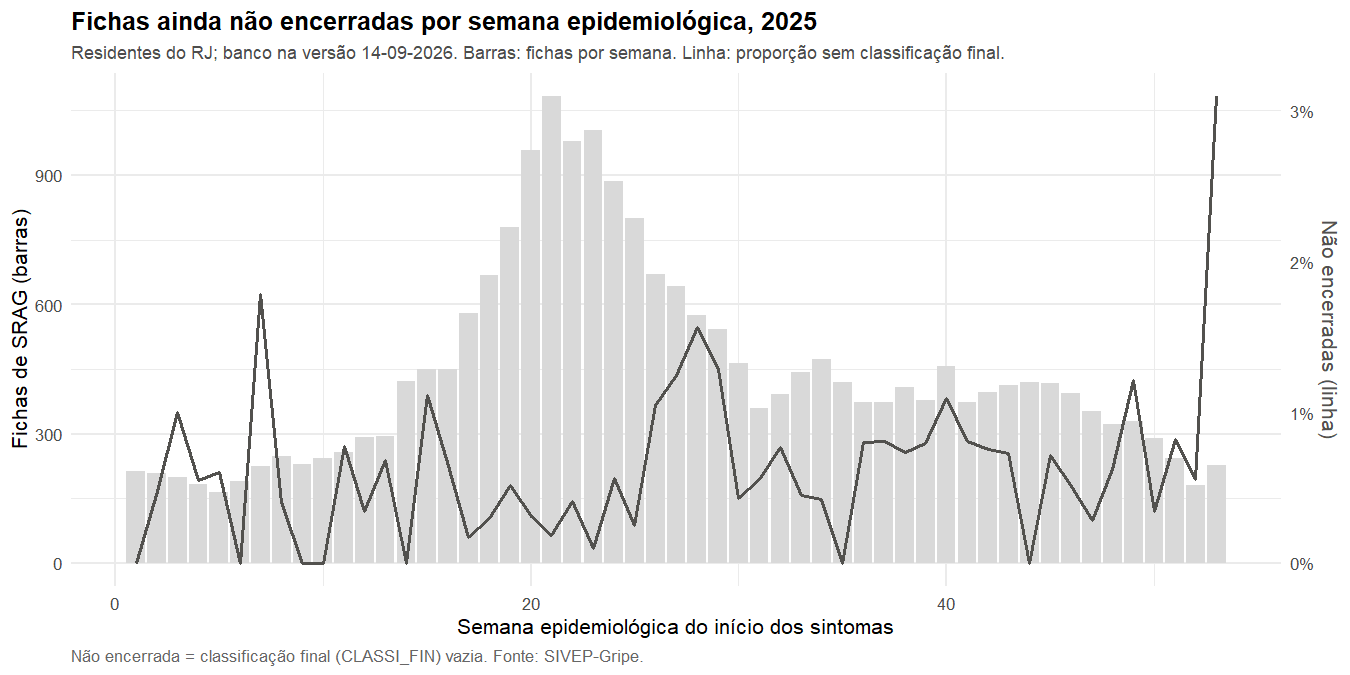
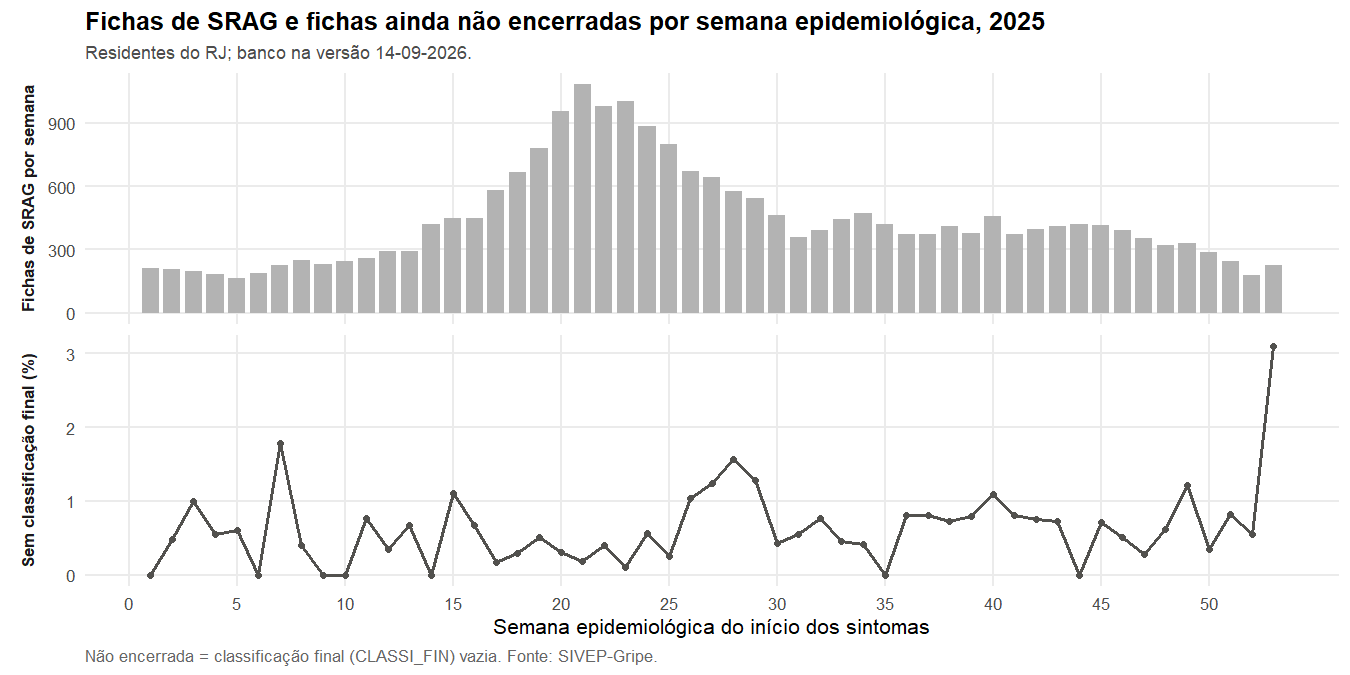
CS-047: revisão dos modelos de gráfico
docs/revisao-graficos.md registra, figura a figura, a pergunta que ela
responde e se a forma é a adequada. Trocas: o gráfico de fichas não
encerradas deixa o eixo duplo por dois painéis empilhados; o mapa LISA
isolado perde os rótulos sobrepostos (o subtítulo já nomeia os
confirmados) e calcula os "esperados por acaso"; figura nova com a série
do estado em um painel por vírus, escala própria. Suíte 741/741 em 23
arquivos.

diff --git a/docs/revisao-graficos.md b/docs/revisao-graficos.md
@@ -1,0 +1,43 @@
+# Revisão dos modelos de gráfico (CS-047)
+
+*Documento vivo. Uma linha por figura: o que ela precisa mostrar, se a forma escolhida é a
+adequada, e o que foi trocado. Critérios: a forma segue o que o dado tem de responder
+(magnitude, identidade, tempo, posição); um eixo por gráfico; cor pela entidade, nunca pela
+ordem; legenda sempre que há mais de uma série; nada que dependa só de cor. Revisão feita em
+2026-09-26 sobre a paleta do CS-046.*
+
+## Figuras do relatório
+
+| Figura | Pergunta que responde | Decisão | Por quê |
+|---|---|---|---|
+| Guia de cores | qual cor é qual vírus e qual classe do LISA | mantida | é a legenda-mestra do relatório |
+| Painel de incidência (3 vírus × 4 anos, mapas) | onde a taxa é alta, e como isso muda no tempo, por vírus | mantida | escala comum aos 4 anos de cada vírus, raiz quadrada para não achatar os anos de baixa; rampa na cor do vírus; entre vírus a escala não é comparável, e o título diz isso |
+| Mapas de incidência isolados (12) | o mesmo, com classes por quintil do próprio mapa | mantidos | quintis destacam o padrão de cada ano; a legenda diz que as classes são do mapa |
+| Bruta × padronizada por idade (dispersão, 12 painéis) | a padronização muda a ordem dos municípios? | mantida | dispersão contra a diagonal é a forma direta da pergunta; os extremos são nomeados na tabela ao lado, não no gráfico (92 pontos por painel) |
+| Bruta × suavizada (dispersão) | quanto a suavização puxa os pequenos | mantida | idem |
+| Painel LISA (3 × 4) | onde há agrupamento, por vírus e ano | mantido | cor cheia/clara para confirmado/indicativo, hachura para instável (não depende só de cor) |
+| Mapa LISA isolado (VSR 2024) | quais municípios formam o agrupamento confirmado | **trocado**: rótulos retirados do mapa | Itaboraí e Tanguá se sobrepunham e o preto sumia sobre o vermelho; o subtítulo já nomeia os confirmados. O "4,6 esperados por acaso" era fixo no código e passou a ser calculado |
+| Mapa de referência das regiões | qual município está em qual região | mantido | tons pastel + nome escrito + tabela (não depende só de cor) |
+| Mapas regionais (12) | taxa por região | mantidos | nome e taxa escritos nas 9 regiões |
+| Série semanal do estado (3 linhas) | a magnitude relativa dos três vírus no tempo | mantida | é a única figura em que os três estão na mesma escala; o pico de 2022 é o fato |
+| **Série por vírus, um painel cada** | o tempo e a forma das ondas de influenza e VSR | **nova** | na escala comum, o pico de SARS-CoV-2 de 2022 (2.265/semana) achata ondas de 300/semana; painéis com escala própria mostram o tempo sem mentir sobre a altura, e o subtítulo diz para não comparar alturas |
+| Painel das 9 regiões (séries) | quando cada região teve suas ondas | mantido | escala própria por região, declarada; as contagens absolutas não são comparáveis entre regiões (população varia 38 vezes), e o texto usa as taxas para isso |
+| Fichas não encerradas por semana | há subida de não encerradas no fim do ano? | **trocada**: eixo duplo → dois painéis empilhados | barra e linha em dois eixos são o erro clássico: os cruzamentos entre elas não significam nada, e a razão entre as escalas é arbitrária. Dois painéis com o mesmo eixo do tempo respondem a mesma pergunta sem esse artefato |
+| Versões do banco (diferença de casos) | quanto os números mudam entre versões | mantida | já trocada no CS-048 de % para diferença absoluta, pelo mesmo motivo (um eixo de 99,9 % a 100,1 % faz 3 casos parecerem uma oscilação) |
+| Leitos × taxa (dispersão, 8 painéis) | a taxa acompanha a oferta de leitos? | mantida | eixo x em raiz quadrada porque metade dos municípios tem 0 leito de UTI; rho e IC escritos no painel |
+
+## Fora do relatório
+
+| Figura | Decisão | Por quê |
+|---|---|---|
+| Histograma de vizinhos | mantido | forma certa para uma distribuição de contagens |
+| Séries por região (9 gráficos isolados) | mantidos | os mesmos das facetas do painel, para quem quer uma região |
+
+## O que não foi feito, e por quê
+
+- **Rótulo direto nas séries** (nome do vírus na ponta da linha): a legenda no topo já resolve, e
+  na escala comum as linhas de influenza e VSR terminam quase juntas.
+- **Escala logarítmica** na série do estado: esconderia os zeros (semanas sem caso) e o leitor
+  clínico lê pior um eixo log do que dois painéis.
+- **Mapa com dados por ponto** (cartograma, círculos proporcionais): a unidade de decisão é o
+  polígono do município, e a taxa já corrige a população.

diff --git a/docs/BACKLOG.md b/docs/BACKLOG.md
@@ -110,7 +110,6 @@ D-06, D-08, D-09, D-10 e a opção do CS-039). **Só a D-02 (prazo) continua abe
 
 | ID | Título | Evidência | Modelo · Esforço | Aceite |
 |---|---|---|---|---|
-| CS-047 | **Revisão dos modelos de gráfico** — para cada figura do relatório (12 + painéis, séries, dispersões, barras com eixo duplo da maturação, gráfico de leitos), responder se a forma é a mais adequada ao que se quer mostrar, propor a troca quando não for (ex.: eixo duplo → dois painéis; dispersão com 92 pontos → identificar extremos) e aplicar; documento curto com a decisão por figura | pedido da analista | Fable · medium (crítica + execução, pequena) | `docs/revisao-graficos.md` com 1 linha por figura (mantida/trocada/por quê); figuras trocadas regeradas; teste de figuras do relatório verde |
 | CS-049 | **População: explicação didática e fórmulas no texto** — o Censo não é anual: escrever, na proposta v2 §3.4 e no relatório, como cada denominador foi obtido — Censo 2022 (contagem), estimativas IBGE 2024/2025 (método do IBGE, com fonte), 2023 por interpolação linear nas datas de referência (fórmula com o peso 334/700), estrutura etária de 2022 aplicada aos outros anos (fórmula), com um exemplo numérico de um município | pedido da analista; ADR-0003; `docs/nota-metodologica-padronizacao.md` | Fable · medium (texto didático; método do IBGE conferido na nota técnica) | subseção "Como a população foi estimada" com 3 fórmulas e 1 exemplo numérico calculado pelo código; 0 números digitados; método do IBGE citado da nota metodológica oficial |
 | CS-052 | **ADRs integrados ao texto** — cada decisão de método (ADR-0001 a 0007) aparece no texto da proposta v2 §3 e numa seção "Decisões de método" do relatório, em linguagem de artigo (o quê, por quê, alternativa descartada), sem depender de o leitor abrir `docs/decisoes/` | pedido da analista | Fable · medium | 7 ADRs cobertos (tabela de rastreio ADR → parágrafo); relatório com seção nova; 0 números digitados |
 | CS-053 | **(não prioritário) Viés de cobertura vacinal — análise no texto** — variação da abertura das campanhas por município e "dias D"; cobertura vacinal de influenza por município e ano (SI-PNI/DATASUS) como variável principal; auditoria município × ano registrando onde a fonte municipal não permite datar a campanha; só texto e tabela de apoio, fora do pipeline principal | pedido da analista, marcado como não prioritário | Fable · high (fonte de cobertura por município a verificar; dados de campanha municipal dispersos) | tabela município × ano com cobertura e data de abertura (ou "não determinável"); seção de discussão; nenhuma leitura causal |
@@ -188,6 +187,7 @@ D-06, D-08, D-09, D-10 e a opção do CS-039). **Só a D-02 (prazo) continua abe
 | CS-050 | **Mapa de referência das regiões de saúde** — 92 municípios coloridos pela região, nomes no polo de inacessibilidade; tabela região → municípios e população no relatório e exportada; parágrafo "por que regiões" (Decreto nº 7.508/2011; SES-RJ) e "por que a análise principal é municipal". Suíte 695/695 em 22 arquivos | 2026-09-26 | `docs/release-history/cs-050-mapa-regioes.md` · commit `5006847` |
 | CS-048 | **Quanto os números mudam depois do fim do ano** — 19 versões antigas do banco de 2025 e 1 de 2024 achadas no S3 do portal; 6 + 1 comparadas com as do estudo: 2025 varia no máximo 3 casos por vírus (0,09 %) entre 65 e 254 dias após o fim do ano; 2024 idêntico entre 180 e 450 dias; tempo mediano até encerrar 15–22 dias, 85–93 % em até 90 dias; seção, tabela e figura no relatório. Suíte 717/717 em 22 arquivos | 2026-09-26 | `docs/release-history/cs-048-versoes-do-banco.md` · commit `b184af1` |
 | CS-051 | **Tabelas ABNT em Word** — `tabelas_abnt.docx` com as 14 tabelas dos 14 CSVs (título acima, fonte abaixo, 3 traços, sem linhas verticais, cabeçalho repetido, paisagem, vírgula decimal), gerado pelo pandoc do Quarto em 4 s e reprodutível byte a byte; série semanal resumida por mês. Suíte 739/739 em 23 arquivos | 2026-09-26 | `docs/release-history/cs-051-tabelas-abnt.md` · commit `4287ce2` |
+| CS-047 | **Revisão dos modelos de gráfico** — `docs/revisao-graficos.md` com pergunta, decisão e motivo por figura (15 + 2); trocadas: eixo duplo das não encerradas → 2 painéis, rótulos sobrepostos do mapa LISA retirados; nova: série do estado com um painel por vírus. Suíte 741/741 em 23 arquivos | 2026-09-26 | `docs/release-history/cs-047-revisao-graficos.md` · commit `(a registrar)` |
 
 ## Descartados
 

diff --git a/docs/release-history/cs-047-revisao-graficos.md b/docs/release-history/cs-047-revisao-graficos.md
@@ -1,0 +1,36 @@
+# CS-047 — Revisão dos modelos de gráfico
+
+- **Data:** 2026-09-26
+- **Modelo · esforço:** Fable · medium (acordado com o dono)
+- **Origem:** pedido da analista: "os modelos de gráficos escolhidos realmente são os mais adequados
+  para compreensão e visualização das análises realizadas?"
+
+## Verificação com número
+
+| Critério de aceite | Resultado |
+|---|---|
+| `docs/revisao-graficos.md` com 1 linha por figura | 15 figuras do relatório + 2 de fora, cada uma com pergunta, decisão e motivo; seção "o que não foi feito" |
+| Figuras trocadas regeradas | 2 trocadas (eixo duplo → 2 painéis; rótulos do LISA retirados) + 1 nova (série com um painel por vírus); conferidas na imagem |
+| Teste de figuras do relatório | verde: toda figura citada existe; 0 números digitados |
+| Testes | 741/741 expectativas em 23 arquivos, 0 falhas (eram 739) |
+| Pipeline do zero | 8 etapas em 158 s |
+
+## O que mudou e por quê
+
+1. **Fichas não encerradas: eixo duplo → dois painéis empilhados.** Barra e linha em dois eixos
+   fazem o olho ler cruzamentos que não existem, porque a razão entre as escalas é arbitrária.
+   Os dois painéis partilham o eixo do tempo e respondem à mesma pergunta.
+2. **Série do estado: figura nova com um painel por vírus, escala própria.** Na escala comum o
+   pico de SARS-CoV-2 de 2022 (2.265 casos/semana) achata ondas de 300/semana de influenza e
+   VSR. A figura original fica (é a única em que a magnitude é comparável) e a nova mostra o
+   tempo das ondas; o subtítulo avisa para não comparar alturas entre painéis.
+3. **Mapa LISA isolado: rótulos retirados.** Itaboraí e Tanguá se sobrepunham e o preto sumia
+   sobre o vermelho; o subtítulo já nomeia os confirmados. O "4,6 esperados por acaso" era um
+   número fixo no código e passou a ser calculado (municípios × α).
+
+Todas as outras figuras foram mantidas, com o motivo registrado no documento.
+
+## Erros do caminho
+
+Nenhum na implementação. O eixo duplo estava no projeto desde o CS-035 e passou pelo CS-046
+sem ser questionado: a revisão por pergunta (o que a figura responde?) é o que o pegou.
